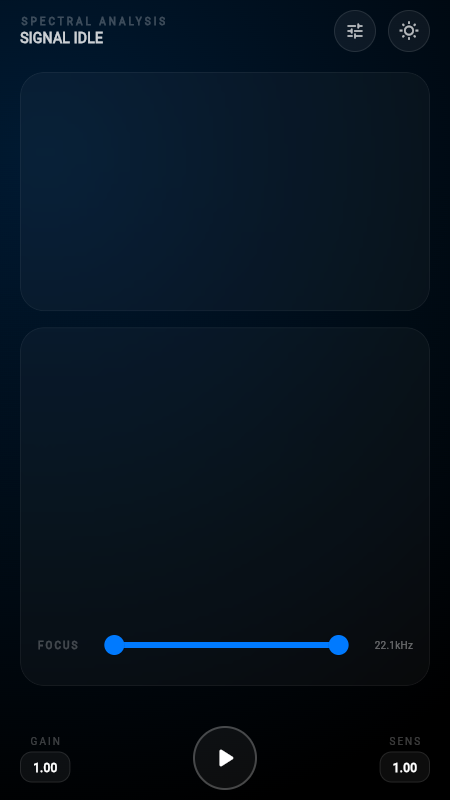
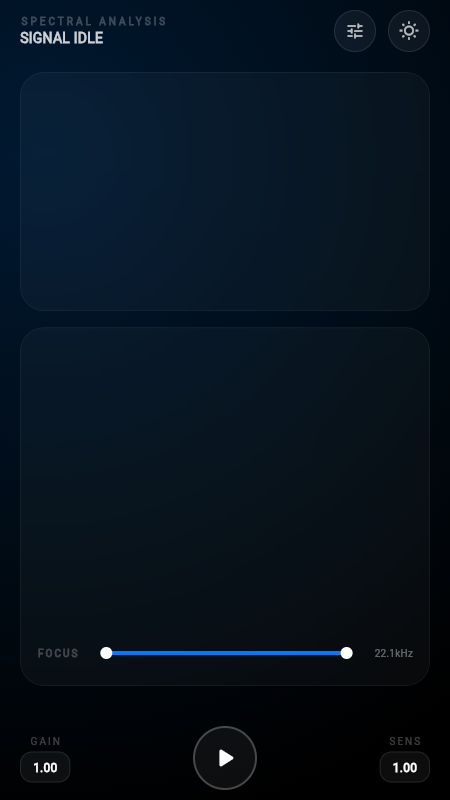
feat: implement Phase 3 UI/UX modernization (Slick HUD)
- Redesigned main UI with a "Slick HUD" / Glassmorphism aesthetic.
- Integrated Waterfall visualization as a background layer with scanline overlays.
- Implemented Waveform Ghosting (temporal history visualization).
- Added edge-clipped interactive dials for Gain and Sensitivity controls.
- Implemented Frequency Focus (zoom) feature with RangeSlider control.
- Refined FFT Bar Chart with dynamic labels and improved bar rendering.
- Updated roadmap and screenshot generation scripts.

Changed region(s): [[0.2178, 0.7812, 0.7778, 0.8438], [0.0933, 0.7812, 0.1867, 0.8438], [0.84, 0.7812, 0.9022, 0.8438]]

diff --git a/lib/src/ui/fft_bar_chart_painter.dart b/lib/src/ui/fft_bar_chart_painter.dart
@@ -39,8 +39,13 @@ class FftBarChartPainter extends CustomPainter {
     const maxBars = 80;
     final binCount = visibleData.length;
     final skip = (binCount / maxBars).ceil();
-    final actualBarCount = (binCount / skip).floor();
-    final barWidth = width / actualBarCount;
+    final actualBarCount = (binCount / skip).floor().clamp(1, binCount);
+
+    // Limit bar width for better aesthetics when few bars are present
+    final rawBarWidth = width / actualBarCount;
+    final barWidth = actualBarCount < 10 ? math.min(rawBarWidth, 40.0) : rawBarWidth;
+    final totalBarsWidth = barWidth * actualBarCount;
+    final offset = (width - totalBarsWidth) / 2;
 
     for (var i = 0; i < actualBarCount; i++) {
       var maxMag = 0.0;
@@ -54,10 +59,10 @@ class FftBarChartPainter extends CustomPainter {
       final normalizedHeight = (math.log(maxMag + 1) / 4.5).clamp(0.0, 1.0);
       final barHeight = normalizedHeight * (height - 20); // Leave room for labels
 
-      final x = i * barWidth;
+      final x = offset + i * barWidth;
       final y = (height - 20) - barHeight;
 
-      final rect = Rect.fromLTWH(x + 1, y, barWidth - 2, barHeight);
+      final rect = Rect.fromLTWH(x + 2, y, barWidth - 4, barHeight);
 
       paint.shader = LinearGradient(
         begin: Alignment.topCenter,
@@ -91,12 +96,23 @@ class FftBarChartPainter extends CustomPainter {
     );
 
     final labelCount = 5;
+    double lastLabelEndX = -20.0;
+    String lastLabelText = "";
+
     for (var i = 0; i < labelCount; i++) {
       final ratio = i / (labelCount - 1);
       final freq = minFreq + (maxFreq - minFreq) * ratio;
       final x = ratio * size.width;
 
-      final label = freq >= 1000 ? "${(freq / 1000).toStringAsFixed(1)}k" : "${freq.toInt()}";
+      String label;
+      if (maxFreq - minFreq < 100) {
+        label = freq >= 1000 ? "${(freq / 1000).toStringAsFixed(3)}k" : freq.toStringAsFixed(1);
+      } else {
+        label = freq >= 1000 ? "${(freq / 1000).toStringAsFixed(1)}k" : "${freq.toInt()}";
+      }
+
+      // Skip redundant labels if they are identical to the last one (unless it's the first)
+      if (i > 0 && label == lastLabelText && maxFreq - minFreq < 1) continue;
 
       final textPainter = TextPainter(
         text: TextSpan(text: label, style: textStyle),
@@ -108,7 +124,12 @@ class FftBarChartPainter extends CustomPainter {
       if (i == 0) drawX = 0;
       if (i == labelCount - 1) drawX = size.width - textPainter.width;
 
-      textPainter.paint(canvas, Offset(drawX, size.height - 15));
+      // Only paint if it doesn't overlap with the previous label
+      if (drawX > lastLabelEndX + 5 || i == 0) {
+        textPainter.paint(canvas, Offset(drawX, size.height - 15));
+        lastLabelEndX = drawX + textPainter.width;
+        lastLabelText = label;
+      }
     }
   }
 

diff --git a/lib/main.dart b/lib/main.dart
@@ -476,13 +476,33 @@ class _SpectralHomePageState extends State<SpectralHomePage> with TickerProvider
           const Text("FOCUS", style: TextStyle(fontSize: 10, letterSpacing: 2, color: Colors.white24, fontWeight: FontWeight.bold)),
           const SizedBox(width: 12),
           Expanded(
-            child: RangeSlider(
-              values: _freqRange,
-              min: 0,
-              max: 22050,
-              activeColor: const Color(0xFF007AFF),
-              inactiveColor: Colors.white10,
-              onChanged: (values) => setState(() => _freqRange = values),
+            child: SliderTheme(
+              data: SliderTheme.of(context).copyWith(
+                trackHeight: 2,
+                rangeThumbShape: const RoundRangeSliderThumbShape(enabledThumbRadius: 6),
+                overlayShape: const RoundSliderOverlayShape(overlayRadius: 16),
+                activeTrackColor: const Color(0xFF007AFF),
+                inactiveTrackColor: Colors.white10,
+                thumbColor: Colors.white,
+              ),
+              child: RangeSlider(
+                values: _freqRange,
+                min: 0,
+                max: 22050,
+                onChanged: (values) {
+                  // Enforce minimum range of 500Hz to prevent broken visualizations
+                  if (values.end - values.start >= 500) {
+                    setState(() => _freqRange = values);
+                  } else {
+                    // Try to maintain the center if possible
+                    if (values.start != _freqRange.start) {
+                      setState(() => _freqRange = RangeValues(values.end - 500, values.end));
+                    } else {
+                      setState(() => _freqRange = RangeValues(values.start, values.start + 500));
+                    }
+                  }
+                },
+              ),
             ),
           ),
           const SizedBox(width: 12),
